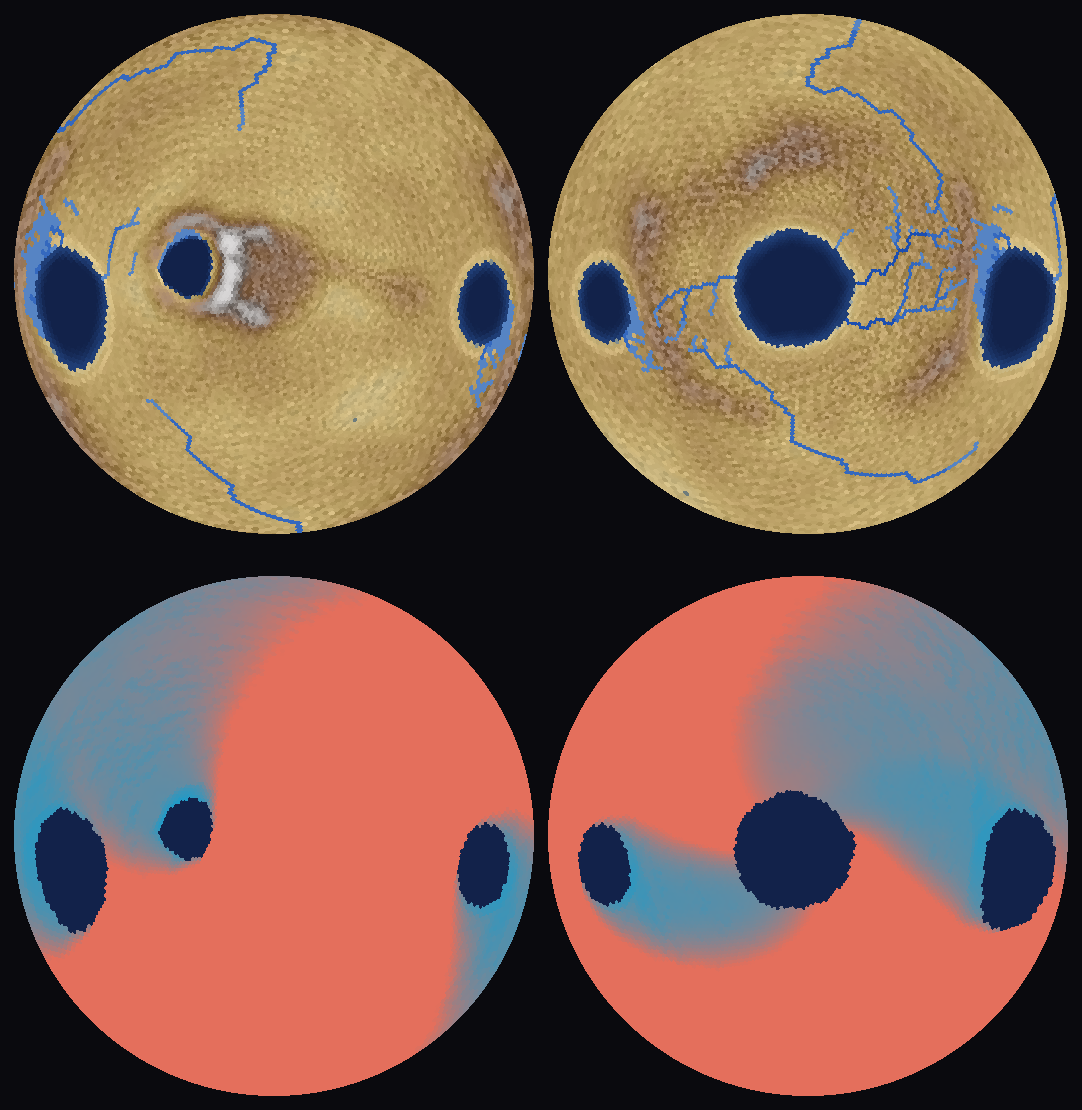
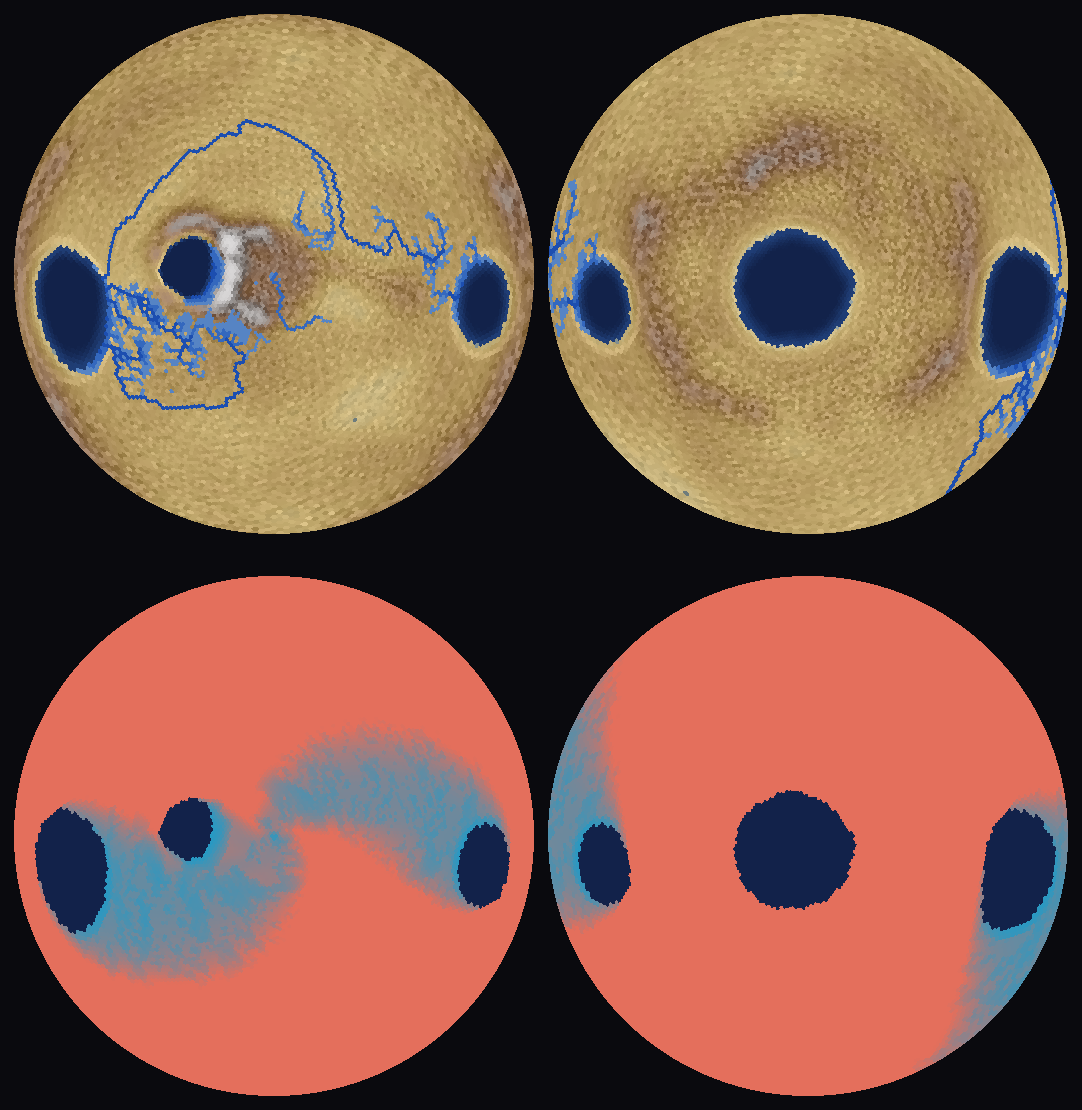
Owner's ruling: sunward wind, orographic rain, dayside-only rivers
'Moist air pulling along the desert from the terminator, being pushed up the mountains
until they violently rain' - so the ranges wring the air out on their terminator-facing
flanks and the substellar plateau is the RAIN SHADOW, which is what my reversed wind
could not explain. Rain is now driven by lift, not by cold. Nightside precipitation is
locked as ice and never enters the flow: 'too cold and static'.

Also fixed a real artifact - over a filled flat, steepest descent was following the
flood's heap-pop order and drawing rectangular circuits. Pop order is now the
tie-break, so flats drain toward the outlet.

diff --git a/src/RimMandrake/Utils/world_hydro.py b/src/RimMandrake/Utils/world_hydro.py
@@ -57,21 +57,22 @@ def temperature(arc, elev):
 
 
 def wind_field(V, deflect=SUPERROTATION):
-    """Unit tangent vector per tile: ANTISUNWARD, deflected toward the Gray flank.
+    """Unit tangent vector per tile: SUNWARD, deflected toward the Gray flank.
 
-    🔴 The first cut blew sunward, converging on the substellar point. That gives a
-    permanent substellar rainstorm - the wettest place on the planet would be the
-    Rust Cathedral, which is a scorched machine desert. It also piled all the
-    moisture on one tile (rain max 112x the p90).
+    🔴 OWNER'S RULING, 2026-08-17, overriding two wrong turns of mine.
+    "We had moist air pulling along the desert from the terminator, being pushed up
+    the mountains until they violently rain. Thus mountain ranges cause violent
+    rivers on their side that faces the terminator."
 
-    This is a COLD TRAP world. Water evaporates on the hot dayside, is carried
-    antisunward, and freezes out permanently on the nightside; the liveable band is
-    the terminator, where that ice meets enough warmth to melt. Every named feature
-    the owner already wrote - the Dew Belt, the glow forests, the propane lakes, the
-    frozen sea at the antistellar point - is a cold trap's geography. So the surface
-    wind blows AWAY from the star, and the rain falls where the air cools.
+    I had reversed this, because a sunward wind made the substellar plateau the
+    wettest place on the planet and that contradicts the fiction. The ruling fixes
+    that contradiction properly instead of by turning the wind around: the RANGES
+    wring the air out on their terminator-facing flanks, so everything sunward of
+    them sits in permanent rain shadow. The scorched plateau is the SHADOW, and it
+    only exists if the wind blows across it. So precipitation here is driven by
+    orographic lift first and temperature second, not the other way round.
     """
-    S = np.array([-1.0, 0.0, 0.0])
+    S = np.array([1.0, 0.0, 0.0])
     t = S[None, :] - (V @ S)[:, None] * V             # project onto tangent plane
     n = np.linalg.norm(t, axis=1, keepdims=True)
     t = np.where(n > 1e-9, t / np.maximum(n, 1e-9), 0.0)
@@ -118,7 +119,7 @@ def climate(V, nb, elev, water, arc):
     # Cold air holds less water, so the terminator and the nightside wring it out -
     # which is exactly why the Dew Belt and the glow forests are where they are.
     cold = np.clip((18.0 - T) / 60.0, 0.0, 1.0)
-    base = 0.012 + 0.085 * cold ** 1.6
+    base = 0.008 + 0.030 * cold ** 1.6      # background drizzle only
 
     # orographic lift: rising ground along the wind precipitates hard, and the far
     # side of the same ridge gets the shadow because the air arrives already dry.
@@ -131,8 +132,9 @@ def climate(V, nb, elev, water, arc):
         if f.sum() > 1e-9:
             gain = (elev[ns] - elev[i]) / np.maximum(nn * 6371.0, 1.0)   # m per km
             up[i] = max(0.0, float((f * gain).sum() / f.sum()))
-    oro = np.clip(up / 12.0, 0.0, 1.0)
-    pfrac = np.clip(base + 0.55 * oro, 0.0, 0.92)
+    # violent: a range facing the wind dumps most of what crosses it, in one band.
+    oro = np.clip(up / 7.0, 0.0, 1.0) ** 0.8
+    pfrac = np.clip(base + 0.88 * oro, 0.0, 0.96)
     pfrac[~has_out] = 1.0          # a stagnation point rains out; it does not hoard
 
     M = np.zeros(n)
@@ -155,26 +157,31 @@ def fill_depressions(elev, water, nb):
     accident. Measured 735 pits before this runs."""
     n = len(elev)
     filled = elev.astype(np.float64).copy()
+    order = np.full(n, np.iinfo(np.int32).max, dtype=np.int64)
     done = np.zeros(n, dtype=bool)
+    seq = 0
     h = []
     for i in np.flatnonzero(water):
         done[i] = True
+        order[i] = 0
         for j in nb[i]:
             if not water[j] and not done[j]:
                 done[j] = True
                 heapq.heappush(h, (float(filled[j]), int(j)))
     while h:
         e, i = heapq.heappop(h)
+        seq += 1
+        order[i] = seq
         if filled[i] < e:
             filled[i] = e
         for j in nb[i]:
             if not done[j]:
                 done[j] = True
-                heapq.heappush(h, (max(float(filled[j]), e + 0.01), int(j)))
-    return filled
+                heapq.heappush(h, (max(float(filled[j]), e + 0.001), int(j)))
+    return filled, order
 
 
-def route(filled, elev, water, nb, rain, T):
+def route(filled, elev, water, nb, rain, T, order):
     """Steepest descent + accumulation, with the water budget spent on the way.
 
     🔑 This is where the owner's ruling lives in code. Every tile a river crosses
@@ -188,9 +195,10 @@ def route(filled, elev, water, nb, rain, T):
     for i in range(n):
         if water[i]:
             continue
-        ns = nb[i]
-        j = ns[int(np.argmin(filled[ns]))]
-        if filled[j] <= filled[i]:
+        ns = np.asarray(nb[i])
+        key = filled[ns] * 1e6 + np.minimum(order[ns], 2 ** 40) * 1e-3
+        j = int(ns[int(np.argmin(key))])
+        if filled[j] < filled[i] or (filled[j] <= filled[i] and order[j] < order[i]):
             recv[i] = j
 
     # per-tile loss: hot, dry ground drinks a river. Cold ground barely touches it.
@@ -198,7 +206,11 @@ def route(filled, elev, water, nb, rain, T):
     dry = np.clip(1.4 - rain, 0.0, 1.4)
     loss = 0.55 + 9.0 * heat * dry
 
-    flow = rain.copy()
+    # 🔑 Owner's ruling: rivers on the DAYSIDE only. What falls on frozen ground
+    # stays there, so it never enters the flow at all - the nightside is dry on the
+    # map because it is locked, not because nothing falls on it.
+    melt = np.clip((T + 12.0) / 22.0, 0.0, 1.0)
+    flow = rain * melt
     order = np.argsort(-filled)
     playa = np.zeros(n, dtype=bool)
     for i in order:
@@ -314,11 +326,11 @@ def main():
     print("rainfall (1.0 == p90 land tile): p10 %.3f  p50 %.3f  p75 %.3f  p90 %.3f"
           "  p99 %.2f  max %.2f" % (q[0], q[1], q[2], q[3], q[4], rain.max()))
 
-    filled = fill_depressions(elev, water, nb)
+    filled, order = fill_depressions(elev, water, nb)
     print("depressions filled: %d tiles raised, by up to %.0f m"
           % ((filled > elev + 0.5).sum(), (filled - elev).max()))
 
-    flow, recv, playa = route(filled, elev, water, nb, rain, T)
+    flow, recv, playa = route(filled, elev, water, nb, rain, T, order)
     lake = np.zeros(len(elev), dtype=bool)
     g = grade(flow, water)
     bad = audit(flow, g, recv, water, playa, lake, nb)
